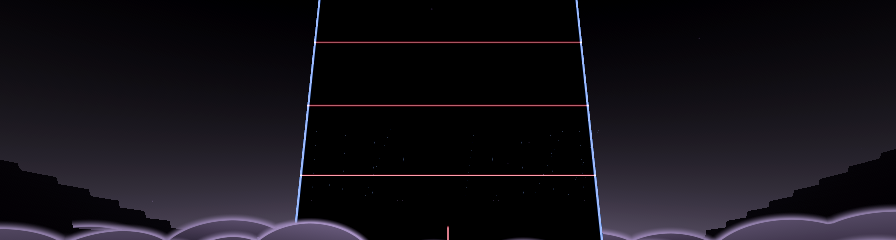
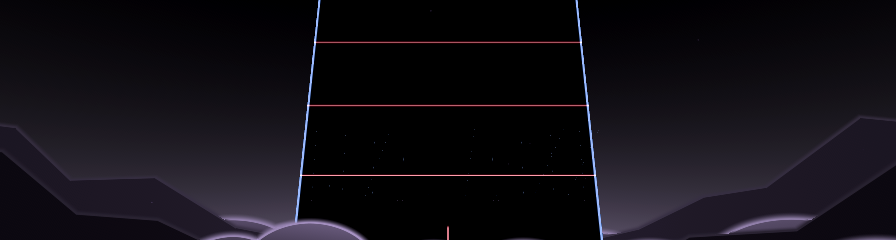
Monolith: layered mountain silhouettes in place of the terraces
The owner picked layered silhouette flats over mesas, curved terraces or no ground.
- The terraced valley mesh is gone: a flat valley floor under the clouds.
- Three upright mountain rings at 380, 650 and 950 m with jagged ridges, built
  like the cloud rings (shared _upright_ring: band plus soft-edge fringe). Low
  along the valley's line (-30/-10/+10 m) so the slab and the way behind stay
  open, high at its sides (+100/+220/+380 m) so each farther layer stands higher.
  Nothing within the notes' 320 m, none touching the slab.
- MonolithRidge.gdshader: dark flat body, thin lighter ridge line, paler with
  distance, sinking into the clouds below their level. The soft edge is the
  stage's far blur width (0.007 rad); MonolithCloudEdge takes its tone as a uniform.
Checked: desktop captures all round; thumbnails re-rendered; all tests and the
doc check pass. Not yet seen on the headset; GPU not measured.

Claude-Session: https://claude.ai/code/session_01XiLHAWRVVgDFZqR7J7F4a3

diff --git a/game/env/AGENTS.md b/game/env/AGENTS.md
@@ -108,16 +108,16 @@ Henge (24 monoliths round the player, for 90/360 maps; BLOCKOUT 2026-10-29)
   the bands and adds `FLOOD_LEVEL` grey, capped at `FLOOR_MAX` below the notes. `HengeSky.gdshader`: dark with a
   neutral horizon glow (no `bg_<type>`). Picked only in the menu or for 90/360 maps; never by Follow map.
 
-Monolith (one colossal slab down a terraced valley, seen from a tall pillar, abstract; in the Auto pool; BLOCKOUT
+Monolith (one colossal slab down a cloud-filled valley between mountains, seen from a tall pillar, abstract; in the Auto pool; BLOCKOUT
 2026-10-31)
 - `MonolithRig.gd` (tool, `MonolithRig`): one black box `SLAB` (1:4:9) `SLAB_DISTANCE` out, `SLAB_YAW` left of ahead,
   its face to the player (`face_material`), standing on the floor of a valley `VALLEY_Y` below the platform that runs
-  the same way; the player's pillar down to it; the valley's sides step up in terraces (`_valley_mesh`: a column of
-  vertices on each step edge so steps stay sharp, ending `VALLEY_RADIUS` out, inside the far plane; valley and pillar
-  share `floor_material`); upright cloud rings (`CLOUD_RINGS`, `_cloud_ring`: a band up from the valley floor whose top
-  is a row of round puffs, built in the mesh and closed round the ring with no step) among the terraces, the nearest 80 m
-  out (owner, 2026-10-31: clouds closer). Every terrace above y -5 starts
-  beyond r 320 m, bends included; keep it so when changing the valley's numbers. `ledge_spot(share)` and
+  the same way; the player's pillar down to it; a flat valley floor out to `VALLEY_RADIUS` (valley and pillar share
+  `floor_material`); mountain rings (`RIDGE_RINGS`, `_ridge_ring`: a band up from the valley floor to a jagged ridge,
+  low along the valley's line and high at its sides; owner, 2026-10-31: layered silhouettes in place of terraces); upright cloud rings (`CLOUD_RINGS`, `_cloud_ring`: a band up from the valley floor whose top
+  is a row of round puffs, built in the mesh and closed round the ring with no step) , the nearest 80 m out (owner, 2026-10-31:
+  clouds closer). Clouds and mountains share `_upright_ring` (band plus soft-edge fringe). Every mountain ring stays
+  beyond r 320 m and clear of the slab, and every cloud inside it below y -5; keep it so when changing the numbers. `ledge_spot(share)` and
   `up_face(lean)` place the lasers (`LightRig` "monolith": diagonal beams up the face from its ledge `LEDGE_HEIGHT`
   up, above the clouds (owner, 2026-10-31), waving lasers
   between; no square bars). Nothing within the notes' 300 m fly-in in any direction (owner's rule, 2026-10-31).
@@ -131,9 +131,11 @@ Monolith (one colossal slab down a terraced valley, seen from a tall pillar, abs
   falling toward the player as a widening wedge. `MonolithCloud.gdshader`: the cloud rings, opaque (outline in the
   mesh: no discard, no blending), light at the tallest puffs' line darkening downward (from that
   smooth line, not each puff's top, so no crease runs down from the dips between puffs), a thin rim on the puffs, farther rings paler.
-  `MonolithCloudEdge.gdshader`: the clouds' soft edge (owner, 2026-10-31), a see-through fringe `CLOUD_BLUR` (an
-  angle) out from the outline, the stage's only blending. `monolith_cloud.gdshaderinc`: the clouds' tones and
-  `under_cloud`, used by the clouds, the valley, the pillar and the slab: below the clouds' level (`CLOUD_RINGS`' puffs'
+  `MonolithRidge.gdshader`: the mountain rings, opaque dark flat silhouettes with a thin lighter
+  ridge line, paler with distance, sinking into the clouds below their level. `MonolithCloudEdge.gdshader`: the clouds'
+  and mountains' soft edge (owner, 2026-10-31), a see-through fringe `CLOUD_BLUR` or `RIDGE_BLUR` (an angle) out from
+  the outline in the `tone` MonolithRig sets, the stage's only blending. `monolith_cloud.gdshaderinc`: the clouds' tones and
+  `under_cloud`, used by the clouds, the mountains, the valley, the pillar and the slab: below the clouds' level (`CLOUD_RINGS`' puffs'
   middle, set by `_sink_into_clouds`, `CLOUD_RING_COUNT` rings, 6) a surface takes the cloud's tone, so nothing pokes hard through
   a cloud or shows beneath one (owner, 2026-10-31). `MonolithSky.gdshader`:
   black with a neutral horizon glow behind the slab (`SLAB_DIR` must match `MonolithRig.SLAB_YAW`; no `bg_<type>`) and

diff --git a/doc/world/SPATIAL_LAYOUT.md b/doc/world/SPATIAL_LAYOUT.md
@@ -97,9 +97,11 @@ Plain boxes in `HengeRig.gd`, every size a named constant there; for 90 and 360 
 - Slab: 360 m wide, 810 m tall, 90 m deep; front face 520 m from the player, 30 degrees left of ahead, facing them; its
   top front corners about 980 m away (camera far 1024 m).
 - Pillar: the platform stands on a column 10 m round down to the valley floor at y -80.
-- Valley: runs the slab's way (30 degrees left of ahead); its floor 460 m wide at y -80, bending 25 m either way; then
-  terraces up both sides, 15 m higher every 30 m out (4 m steep faces), to ridges about +295 m at 980 m. The first
-  terrace above y -5 starts beyond 325 m. The slab stands on the valley floor (top about 950 m away); its shadow falls
+- Valley: runs the slab's way (30 degrees left of ahead); a flat floor at y -80 under the clouds. Mountains (owner,
+  2026-10-31: layered silhouette flats in place of the first terraces): 3 upright rings at 380, 650 and 950 m with
+  jagged ridges, low along the valley's line (-30, -10, +10 m, so they hide in the clouds toward the slab and behind
+  the player) and high at its sides (+100, +220, +380 m), so each farther layer stands higher to the eye; nothing of
+  them within 320 m, none touching the slab. The slab stands on the valley floor (top about 950 m away); its shadow falls
   down the valley toward the player.
 - Clouds (owner's reference, 2026-10-31: stylized flats): 6 upright rings at 80, 150, 230, 340, 470 and 760 m (none crossing the slab; the
   nearest three added 2026-10-31 so the clouds reach close to the player), each a band up from the valley floor topped

diff --git a/doc/world/GAME_BIBLE.md b/doc/world/GAME_BIBLE.md
@@ -60,9 +60,10 @@ See `SPATIAL_LAYOUT.md` (origin, bounds, corridor, exclusion zones) and the root
   waving; the ledge's own light strip was taken off, owner 2026-10-31). A faint neutral glow on the horizon behind it; its shadow falls across the plain toward the player.
 - Build-up: seams light from the foot up; drop: the slit opens to the top, then closes back low.
 - The main form is one symmetric object placed off-centre on purpose (the point of the stage); props still to come.
-- Setting (owner, 2026-10-31): the player stands on a tall pillar in the middle of a valley, looking down on terraces
-  stepping away below, the slab ahead down the valley, stylized low clouds drifting among the terraces (owner's pick
-  "clouds among terraces" over "above a sea of cloud" and "clouds only far away"). The clouds are stylized like the
+- Setting (owner, 2026-10-31): the player stands on a tall pillar in the middle of a valley, looking down on low clouds
+  filling it, mountains rising out of them on both sides as layered dark silhouettes (owner, 2026-10-31, in place of
+  the first terraces), the slab ahead down the valley (owner's pick "clouds among terraces" over "above a sea of
+  cloud" and "clouds only far away"). The clouds are stylized like the
   owner's reference: layered upright flats with rows of round puffs on top and a thin bright rim, paler with distance.
 
 ## Stage stories (agreed with the owner, 2026-10-24, as a first version)
